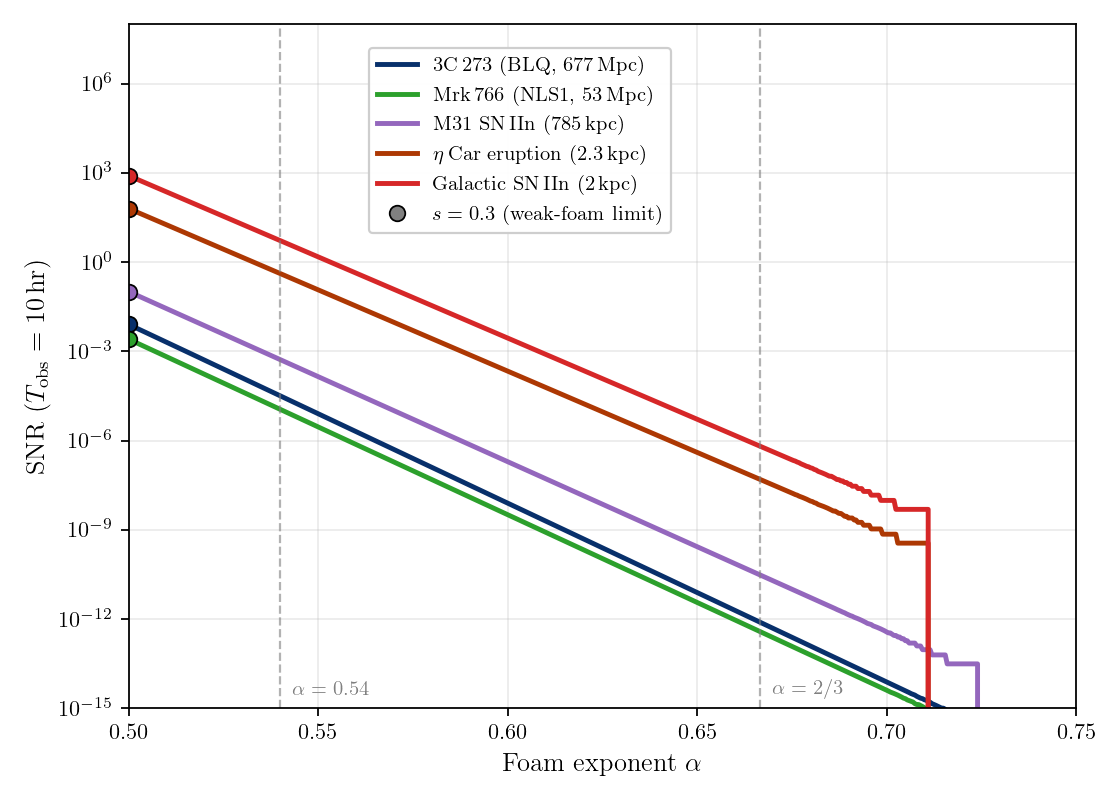
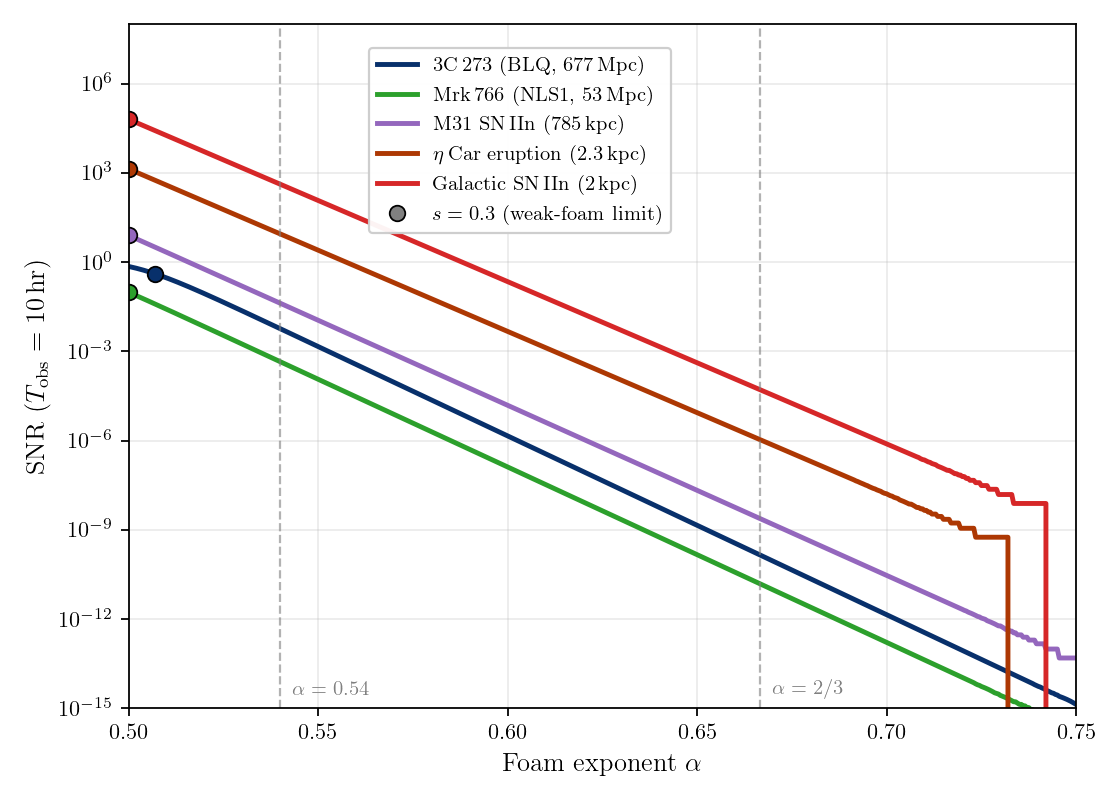
make_snr_alpha_figure.py: update SNR to extended-source wide-filter formula
Replace threshold-filter approach (τ_c = σ_t, partial line flux) with wide-filter
extended-source δg^(2)(0) calculation per §VII.A (Eqs. snr_src_ext/snr_det_ext):
- τ_L computed from intrinsic line FWHM (wide filter passes full line)
- R uses full-line photon flux (no filter-fraction factor)
- SNR = S·R·√(τ_L·T) in source-limited regime (τ_L > σ_t)
- SNR = (τ_L/σ_t)·S·R·√(σ_t·T) in detector-limited regime (σ_t > τ_L)
All sources in Kim 2025 configuration are detector-limited (τ_L ≲ 1 ps ≪ σ_t = 13 ps)

diff --git a/docs/make_snr_alpha_figure.py b/docs/make_snr_alpha_figure.py
@@ -36,13 +36,10 @@ A_tel_m2  = 77.9          # collecting area [m²]
 A_tel_cm2 = A_tel_m2 * 1e4
 eps       = 0.39          # end-to-end throughput
 sig_t     = 13e-12        # timing resolution, rms [s]  (30 ps FWHM)
-tau_c     = sig_t         # threshold filter: tau_c = sig_t (optimum)
 
 # ---------------------------------------------------------------
 # Sources
 # ---------------------------------------------------------------
-dlam = 1.1   # threshold filter width [Å]
-
 # kpc in Mpc
 kpc_in_Mpc = 1e-3
 
@@ -78,17 +75,22 @@ T_obs = 10 * 3600.0   # 10 hr [s]
 alpha = np.linspace(0.50, 0.75, 500)
 
 for src in sources:
-    D_m = src['D_Mpc'] * Mpc
-    f_L = (2 / np.pi) * np.arctan(dlam / src['FWHM'])
-    R   = src['F'] * f_L * A_tel_cm2 / E_phot * eps
+    D_m   = src['D_Mpc'] * Mpc
+    # Wide filter: pass full line, so tau_L = intrinsic line coherence time
+    tau_L = lam_m**2 / (c_si * src['FWHM'] * 1e-10)     # FWHM in Å → m
+    R     = src['F'] * A_tel_cm2 / E_phot * eps           # full-line photon rate
     sigma_phi = (2 * np.pi / lam_m) * D_m**(1 - alpha) * ell_P**alpha
-    sigma_ell = sigma_phi * lam_m / (2 * np.pi)          # σ_ℓ(D) [m]
-    sigma_0   = np.sqrt(2) * sigma_ell / c_si             # Φ_eff=0 limit [s]
-    s         = sigma_0 / tau_c
-    S         = 1.0 - np.exp(2*s**2) * erfc(np.sqrt(2)*s)
-    sigma_g2  = 1.0 / (R * np.sqrt(tau_c * T_obs))   # Eq. hbt_sigma
-    src['SNR'] = S / sigma_g2                          # Eq. hbt_snr
+    sigma_ell = sigma_phi * lam_m / (2 * np.pi)           # σ_ℓ(D) [m]
+    sigma_0   = np.sqrt(2) * sigma_ell / c_si              # Φ_eff=0 limit [s]
+    s = sigma_0 / tau_L
+    S = 1.0 - np.exp(2*s**2) * erfc(np.sqrt(2)*s)
+    # Eq. snr_src_ext (source-limited) or snr_det_ext (detector-limited)
+    if tau_L > sig_t:
+        src['SNR'] = S * R * np.sqrt(tau_L * T_obs)
+    else:
+        src['SNR'] = (tau_L / sig_t) * S * R * np.sqrt(sig_t * T_obs)
     src['R']   = R
+    src['tau_L'] = tau_L
     idx_lim = np.argmin(np.abs(s - 0.3))
     src['alpha_lim'] = alpha[idx_lim]
     src['SNR_lim']   = src['SNR'][idx_lim]
